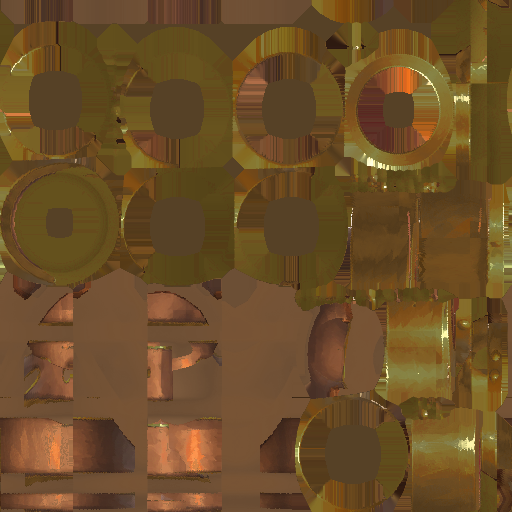
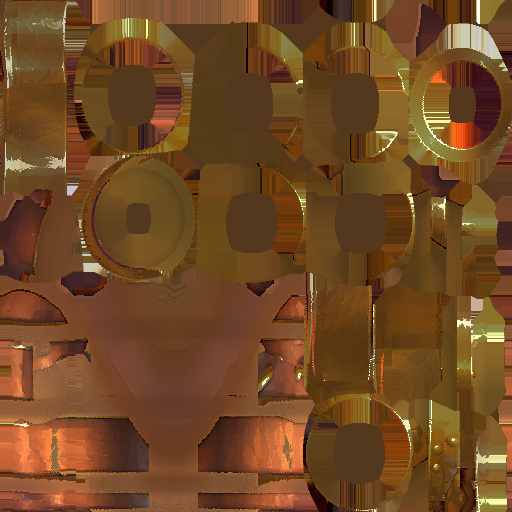
Flame Cannon levels 1 and 2 decluttered (judge prefers them); level 3 keeps its parts
Film d4b: blind Codex level 1 5 -> 6, level 2 5 -> 6 (warmer, darker barrel, stronger gold bands), kept; rules pass for
both. Level 3 also won the judge (6 -> 7) but its re-projected gold came out 19.6 % bright yellow-orange, over the
15 % gate: not kept, its earlier assets stay and the builder declutters only levels 1-2.

diff --git a/art/blender/tower_flame_detail.py b/art/blender/tower_flame_detail.py
@@ -289,6 +289,8 @@ if not os.environ.get("HTD_FAST"):
     json.dump(BORES, open(os.path.join(HERE, "..", "models", f"tower_flame_l{level}_bores.json"), "w"), indent=1)
 for m in muzzles:   # Blender (x, y, z) -> the game's (-x, z, y)
     print("MUZZLE Vector3.new(%.2f, %.2f, %.2f)" % (-m.x, m.z, m.y))
+if level < 3:   # (level 3 decluttered won the judge but its re-projected gold came out 19.6 % bright yellow, over the gate)
+    K.declutter()   # (2026-11-27, busy-detail round)
 if not os.environ.get("HTD_FAST"):
     K.cull_hidden()
 K.finish_check()

diff --git a/reviews/towers/judge.md b/reviews/towers/judge.md
@@ -1207,3 +1207,57 @@ A’s three biggest remaining flaws:
 2. **The signature lightning symbol is missing at this scale.** Add a large, bright purple lightning bolt to the front face, with enough contrast to read on a phone.
 3. **The silhouette is too thin and ring-heavy.** Widen the lower shaft, strengthen the chunky gold bands, and make the copper coils sit closer to the body. This will make the tower feel weighty instead of cage-like.
 
+## the flame tower, level 1, as in the painting
+codex gpt-6.1-terra; A = before, B = after
+
+**B is better overall.** Its warmer wood and metal come closer to the painting, though both versions lose much of the concept’s character at phone size.
+
+| Criterion | A | B |
+|---|---:|---:|
+| Reads as the painted tower at phone size | 5 | 6 |
+| Whole tower visible and well framed | 6 | 6 |
+| Shape and proportions true to the painting | 5 | 5 |
+| Colours and materials | 5 | 6 |
+
+**B’s three biggest remaining flaws:**
+
+1. **The fire is missing.** The barrel reads as a metal tube, not a flame cannon. Give the muzzle a clearly visible orange inner opening with a bright yellow flame.
+2. **The barrel is too narrow and segmented.** The painting has a broad, heavy cannon with one dominant dark rim. Widen the barrel and muzzle, and reduce the prominence of the gold bands.
+3. **The wooden cradle is hard to read.** It collapses into a small orange block. Enlarge the angled supports and front brace, with darker gaps between them and one visible gold bolt.
+
+## the flame tower, level 2, as in the painting
+codex gpt-6.1-terra; A = before, B = after
+
+| Criterion | A | B |
+|---|---:|---:|
+| Reads as the painted tower at phone size | 5/10 | 6/10 |
+| Whole tower visible and well framed | 6/10 | 6/10 |
+| Shape and proportions true to the painting | 4/10 | 5/10 |
+| Colours and materials | 5/10 | 6/10 |
+
+**B is better overall.** Its warmer, darker barrel and stronger gold bands bring it closer to the painting. Neither version captures the concept’s chunky, distinctive silhouette.
+
+B’s three biggest remaining flaws:
+
+1. **The stone base reads as a white disc.** Replace it with a ring of large, irregular tan blocks, with dark gaps and a few visible grass tufts.
+2. **The support structure is lost in a tangle of small shapes.** Enlarge the two sloping wooden legs and their round gold pivot caps so they frame the barrel clearly at phone size.
+3. **The coal hopper barely reads.** Give it a wider, boxy silhouette behind the barrel, with a bright gold rim and a few large black coals separated by orange glow.
+
+## the flame tower, level 3, as in the painting
+codex gpt-6.1-terra; A = after, B = before
+
+**A is better overall.** Its brighter gold and stronger furnace glow make the tower easier to recognize at phone size, though both versions lose much of the painted silhouette against the tree.
+
+| Criterion | A | B |
+|---|---:|---:|
+| Reads as the painted tower at phone size | 7/10 | 6/10 |
+| Whole tower visible and well framed | 6/10 | 6/10 |
+| Shape and proportions true to the painting | 6/10 | 6/10 |
+| Colours and materials | 7/10 | 6/10 |
+
+A’s three biggest remaining flaws:
+
+1. **The cannons look thin and tangled.** Make both barrels wider and more distinctly separated, with larger, clearly visible gold muzzle rims.
+2. **The central pivot and supports disappear.** Enlarge the round gold pivot and give the supporting arch a clean, readable outline.
+3. **The base reads as a bright orange cylinder.** Darken the wooden panels, separate the glowing window slits, and make the pale stone footing chunkier and less uniformly white.
+
